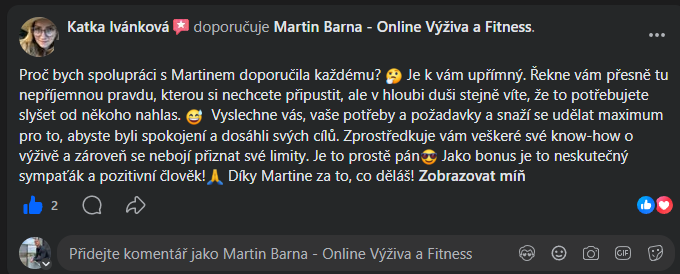
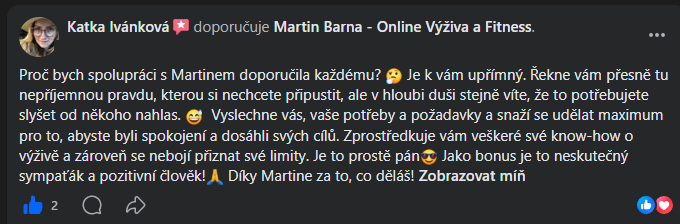
Reference: viencek bez odpovedi vlastnika + 6 FB screenu bez admin pruhu
Viencek-rostislav.png mel jako jediny ze vsech 83 screenu porad videt
"Odpoved vlastnika / Moc diky, Rosto :)". Prosel starym kriteriem
"nesmi byt videt datum", ale Martinovo kriterium z 25. 8. veceru zni
"odpoved na recenzi se reze vzdy". Nahrazen dorezanou verzi 408x530.

6 FB screenu (dittrich-kristina, ivankova-katka, kalnik-jakub,
miller-kacenka, moravkova-natalie, tomankova-janina) nahrazeno
preorezanymi verzemi z 26. 8.: dole jim zbyval pruh "Nejrelevantnejsi"
nebo pole "Pridejte komentar jako Martin Barna", tedy pohled spravce
stranky. Neslo o poruseni pravidla, jen o vizualni smeti.

Vysky v reference/index.html prepsany z IHDR hlavicek PNG, 7 tagu.
Zbylych 17 z 24 sedelo a nemenilo se.

diff --git a/reference/index.html b/reference/index.html
@@ -1035,12 +1035,12 @@
             <a href="https://www.facebook.com/martinbarnaonlinevyzivaafitness" target="_blank" rel="noopener">Facebook · 53 doporučení</a>
         </p>
         <div class="shotgrid">
-                <figure class="shot"><a href="/assets/recenze/google/viencek-rostislav.png" target="_blank" rel="noopener" title="Otevřít screenshot v plné velikosti"><img src="/assets/recenze/google/viencek-rostislav.png" alt="Recenze na Googlu od Rostislav Viencek, hodnocení 5 hvězdiček" width="408" height="595" style="max-width:408px" loading="lazy" decoding="async"></a></figure>
-                <figure class="shot"><a href="/assets/recenze/fb/miller-kacenka.png" target="_blank" rel="noopener" title="Otevřít screenshot v plné velikosti"><img src="/assets/recenze/fb/miller-kacenka.png" alt="Doporučení na Facebooku od Kačenka Miller" width="680" height="514" style="max-width:680px" loading="lazy" decoding="async"></a></figure>
+                <figure class="shot"><a href="/assets/recenze/google/viencek-rostislav.png" target="_blank" rel="noopener" title="Otevřít screenshot v plné velikosti"><img src="/assets/recenze/google/viencek-rostislav.png" alt="Recenze na Googlu od Rostislav Viencek, hodnocení 5 hvězdiček" width="408" height="530" style="max-width:408px" loading="lazy" decoding="async"></a></figure>
+                <figure class="shot"><a href="/assets/recenze/fb/miller-kacenka.png" target="_blank" rel="noopener" title="Otevřít screenshot v plné velikosti"><img src="/assets/recenze/fb/miller-kacenka.png" alt="Doporučení na Facebooku od Kačenka Miller" width="680" height="474" style="max-width:680px" loading="lazy" decoding="async"></a></figure>
                 <figure class="shot"><a href="/assets/recenze/google/gracova-denda.png" target="_blank" rel="noopener" title="Otevřít screenshot v plné velikosti"><img src="/assets/recenze/google/gracova-denda.png" alt="Recenze na Googlu od Denda Grácová, hodnocení 5 hvězdiček" width="408" height="476" style="max-width:408px" loading="lazy" decoding="async"></a></figure>
                 <figure class="shot"><a href="/assets/recenze/fb/kazik-martin.png" target="_blank" rel="noopener" title="Otevřít screenshot v plné velikosti"><img src="/assets/recenze/fb/kazik-martin.png" alt="Doporučení na Facebooku od Martin Kazík" width="680" height="195" style="max-width:680px" loading="lazy" decoding="async"></a></figure>
                 <figure class="shot"><a href="/assets/recenze/google/simarova-marketa.png" target="_blank" rel="noopener" title="Otevřít screenshot v plné velikosti"><img src="/assets/recenze/google/simarova-marketa.png" alt="Recenze na Googlu od Markéta Šimarová, hodnocení 5 hvězdiček" width="408" height="329" style="max-width:408px" loading="lazy" decoding="async"></a></figure>
-                <figure class="shot"><a href="/assets/recenze/fb/dittrich-kristina.png" target="_blank" rel="noopener" title="Otevřít screenshot v plné velikosti"><img src="/assets/recenze/fb/dittrich-kristina.png" alt="Doporučení na Facebooku od Kristina Dittrich" width="680" height="453" style="max-width:680px" loading="lazy" decoding="async"></a></figure>
+                <figure class="shot"><a href="/assets/recenze/fb/dittrich-kristina.png" target="_blank" rel="noopener" title="Otevřít screenshot v plné velikosti"><img src="/assets/recenze/fb/dittrich-kristina.png" alt="Doporučení na Facebooku od Kristina Dittrich" width="680" height="413" style="max-width:680px" loading="lazy" decoding="async"></a></figure>
                 <figure class="shot"><a href="/assets/recenze/google/katy.png" target="_blank" rel="noopener" title="Otevřít screenshot v plné velikosti"><img src="/assets/recenze/google/katy.png" alt="Recenze na Googlu od Katy, hodnocení 5 hvězdiček" width="408" height="350" style="max-width:408px" loading="lazy" decoding="async"></a></figure>
                 <figure class="shot"><a href="/assets/recenze/fb/nagy-hana.png" target="_blank" rel="noopener" title="Otevřít screenshot v plné velikosti"><img src="/assets/recenze/fb/nagy-hana.png" alt="Doporučení na Facebooku od Hana Nagy" width="680" height="309" style="max-width:680px" loading="lazy" decoding="async"></a></figure>
                 <figure class="shot"><a href="/assets/recenze/google/kahajova-jana.png" target="_blank" rel="noopener" title="Otevřít screenshot v plné velikosti"><img src="/assets/recenze/google/kahajova-jana.png" alt="Recenze na Googlu od Jana Kahajová, hodnocení 5 hvězdiček" width="408" height="545" style="max-width:408px" loading="lazy" decoding="async"></a></figure>
@@ -1048,15 +1048,15 @@
                 <figure class="shot"><a href="/assets/recenze/google/nitrova-jarmila.png" target="_blank" rel="noopener" title="Otevřít screenshot v plné velikosti"><img src="/assets/recenze/google/nitrova-jarmila.png" alt="Recenze na Googlu od Jarmila Nitrová, hodnocení 5 hvězdiček" width="408" height="329" style="max-width:408px" loading="lazy" decoding="async"></a></figure>
                 <figure class="shot"><a href="/assets/recenze/fb/janik-lukas.png" target="_blank" rel="noopener" title="Otevřít screenshot v plné velikosti"><img src="/assets/recenze/fb/janik-lukas.png" alt="Doporučení na Facebooku od Lukáš Janík" width="680" height="169" style="max-width:680px" loading="lazy" decoding="async"></a></figure>
                 <figure class="shot"><a href="/assets/recenze/google/k.-zuza.png" target="_blank" rel="noopener" title="Otevřít screenshot v plné velikosti"><img src="/assets/recenze/google/k.-zuza.png" alt="Recenze na Googlu od Zuza K., hodnocení 5 hvězdiček" width="408" height="476" style="max-width:408px" loading="lazy" decoding="async"></a></figure>
-                <figure class="shot"><a href="/assets/recenze/fb/kalnik-jakub.png" target="_blank" rel="noopener" title="Otevřít screenshot v plné velikosti"><img src="/assets/recenze/fb/kalnik-jakub.png" alt="Doporučení na Facebooku od Jakub Kalnik" width="680" height="313" style="max-width:680px" loading="lazy" decoding="async"></a></figure>
+                <figure class="shot"><a href="/assets/recenze/fb/kalnik-jakub.png" target="_blank" rel="noopener" title="Otevřít screenshot v plné velikosti"><img src="/assets/recenze/fb/kalnik-jakub.png" alt="Doporučení na Facebooku od Jakub Kalnik" width="680" height="263" style="max-width:680px" loading="lazy" decoding="async"></a></figure>
                 <figure class="shot"><a href="/assets/recenze/google/l.-katerina.png" target="_blank" rel="noopener" title="Otevřít screenshot v plné velikosti"><img src="/assets/recenze/google/l.-katerina.png" alt="Recenze na Googlu od Kateřina L., hodnocení 5 hvězdiček" width="408" height="287" style="max-width:408px" loading="lazy" decoding="async"></a></figure>
-                <figure class="shot"><a href="/assets/recenze/fb/tomankova-janina.png" target="_blank" rel="noopener" title="Otevřít screenshot v plné velikosti"><img src="/assets/recenze/fb/tomankova-janina.png" alt="Doporučení na Facebooku od Janina Tomanková" width="680" height="228" style="max-width:680px" loading="lazy" decoding="async"></a></figure>
+                <figure class="shot"><a href="/assets/recenze/fb/tomankova-janina.png" target="_blank" rel="noopener" title="Otevřít screenshot v plné velikosti"><img src="/assets/recenze/fb/tomankova-janina.png" alt="Doporučení na Facebooku od Janina Tomanková" width="680" height="188" style="max-width:680px" loading="lazy" decoding="async"></a></figure>
                 <figure class="shot"><a href="/assets/recenze/google/kubesova-helena.png" target="_blank" rel="noopener" title="Otevřít screenshot v plné velikosti"><img src="/assets/recenze/google/kubesova-helena.png" alt="Recenze na Googlu od Helena Kubešová, hodnocení 5 hvězdiček" width="408" height="329" style="max-width:408px" loading="lazy" decoding="async"></a></figure>
                 <figure class="shot"><a href="/assets/recenze/fb/vaculova-pavlina.png" target="_blank" rel="noopener" title="Otevřít screenshot v plné velikosti"><img src="/assets/recenze/fb/vaculova-pavlina.png" alt="Doporučení na Facebooku od Pavlína Vaculová" width="680" height="215" style="max-width:680px" loading="lazy" decoding="async"></a></figure>
                 <figure class="shot"><a href="/assets/recenze/google/kribik-marek.png" target="_blank" rel="noopener" title="Otevřít screenshot v plné velikosti"><img src="/assets/recenze/google/kribik-marek.png" alt="Recenze na Googlu od Marek Křibík, hodnocení 5 hvězdiček" width="408" height="224" style="max-width:408px" loading="lazy" decoding="async"></a></figure>
-                <figure class="shot"><a href="/assets/recenze/fb/ivankova-katka.png" target="_blank" rel="noopener" title="Otevřít screenshot v plné velikosti"><img src="/assets/recenze/fb/ivankova-katka.png" alt="Doporučení na Facebooku od Katka Ivánková" width="680" height="274" style="max-width:680px" loading="lazy" decoding="async"></a></figure>
+                <figure class="shot"><a href="/assets/recenze/fb/ivankova-katka.png" target="_blank" rel="noopener" title="Otevřít screenshot v plné velikosti"><img src="/assets/recenze/fb/ivankova-katka.png" alt="Doporučení na Facebooku od Katka Ivánková" width="680" height="224" style="max-width:680px" loading="lazy" decoding="async"></a></figure>
                 <figure class="shot"><a href="/assets/recenze/google/cerniakova-monika.png" target="_blank" rel="noopener" title="Otevřít screenshot v plné velikosti"><img src="/assets/recenze/google/cerniakova-monika.png" alt="Recenze na Googlu od Monika Černiaková, hodnocení 5 hvězdiček" width="408" height="392" style="max-width:408px" loading="lazy" decoding="async"></a></figure>
-                <figure class="shot"><a href="/assets/recenze/fb/moravkova-natalie.png" target="_blank" rel="noopener" title="Otevřít screenshot v plné velikosti"><img src="/assets/recenze/fb/moravkova-natalie.png" alt="Doporučení na Facebooku od Natálie Morávková" width="680" height="164" style="max-width:680px" loading="lazy" decoding="async"></a></figure>
+                <figure class="shot"><a href="/assets/recenze/fb/moravkova-natalie.png" target="_blank" rel="noopener" title="Otevřít screenshot v plné velikosti"><img src="/assets/recenze/fb/moravkova-natalie.png" alt="Doporučení na Facebooku od Natálie Morávková" width="680" height="124" style="max-width:680px" loading="lazy" decoding="async"></a></figure>
                 <figure class="shot"><a href="/assets/recenze/google/farsky-pavel.png" target="_blank" rel="noopener" title="Otevřít screenshot v plné velikosti"><img src="/assets/recenze/google/farsky-pavel.png" alt="Recenze na Googlu od Pavel Farský, hodnocení 5 hvězdiček" width="408" height="518" style="max-width:408px" loading="lazy" decoding="async"></a></figure>
                 <figure class="shot"><a href="/assets/recenze/google/brozova-sona.png" target="_blank" rel="noopener" title="Otevřít screenshot v plné velikosti"><img src="/assets/recenze/google/brozova-sona.png" alt="Recenze na Googlu od Soňa Brožová, hodnocení 5 hvězdiček" width="408" height="314" style="max-width:408px" loading="lazy" decoding="async"></a></figure>
         </div>
